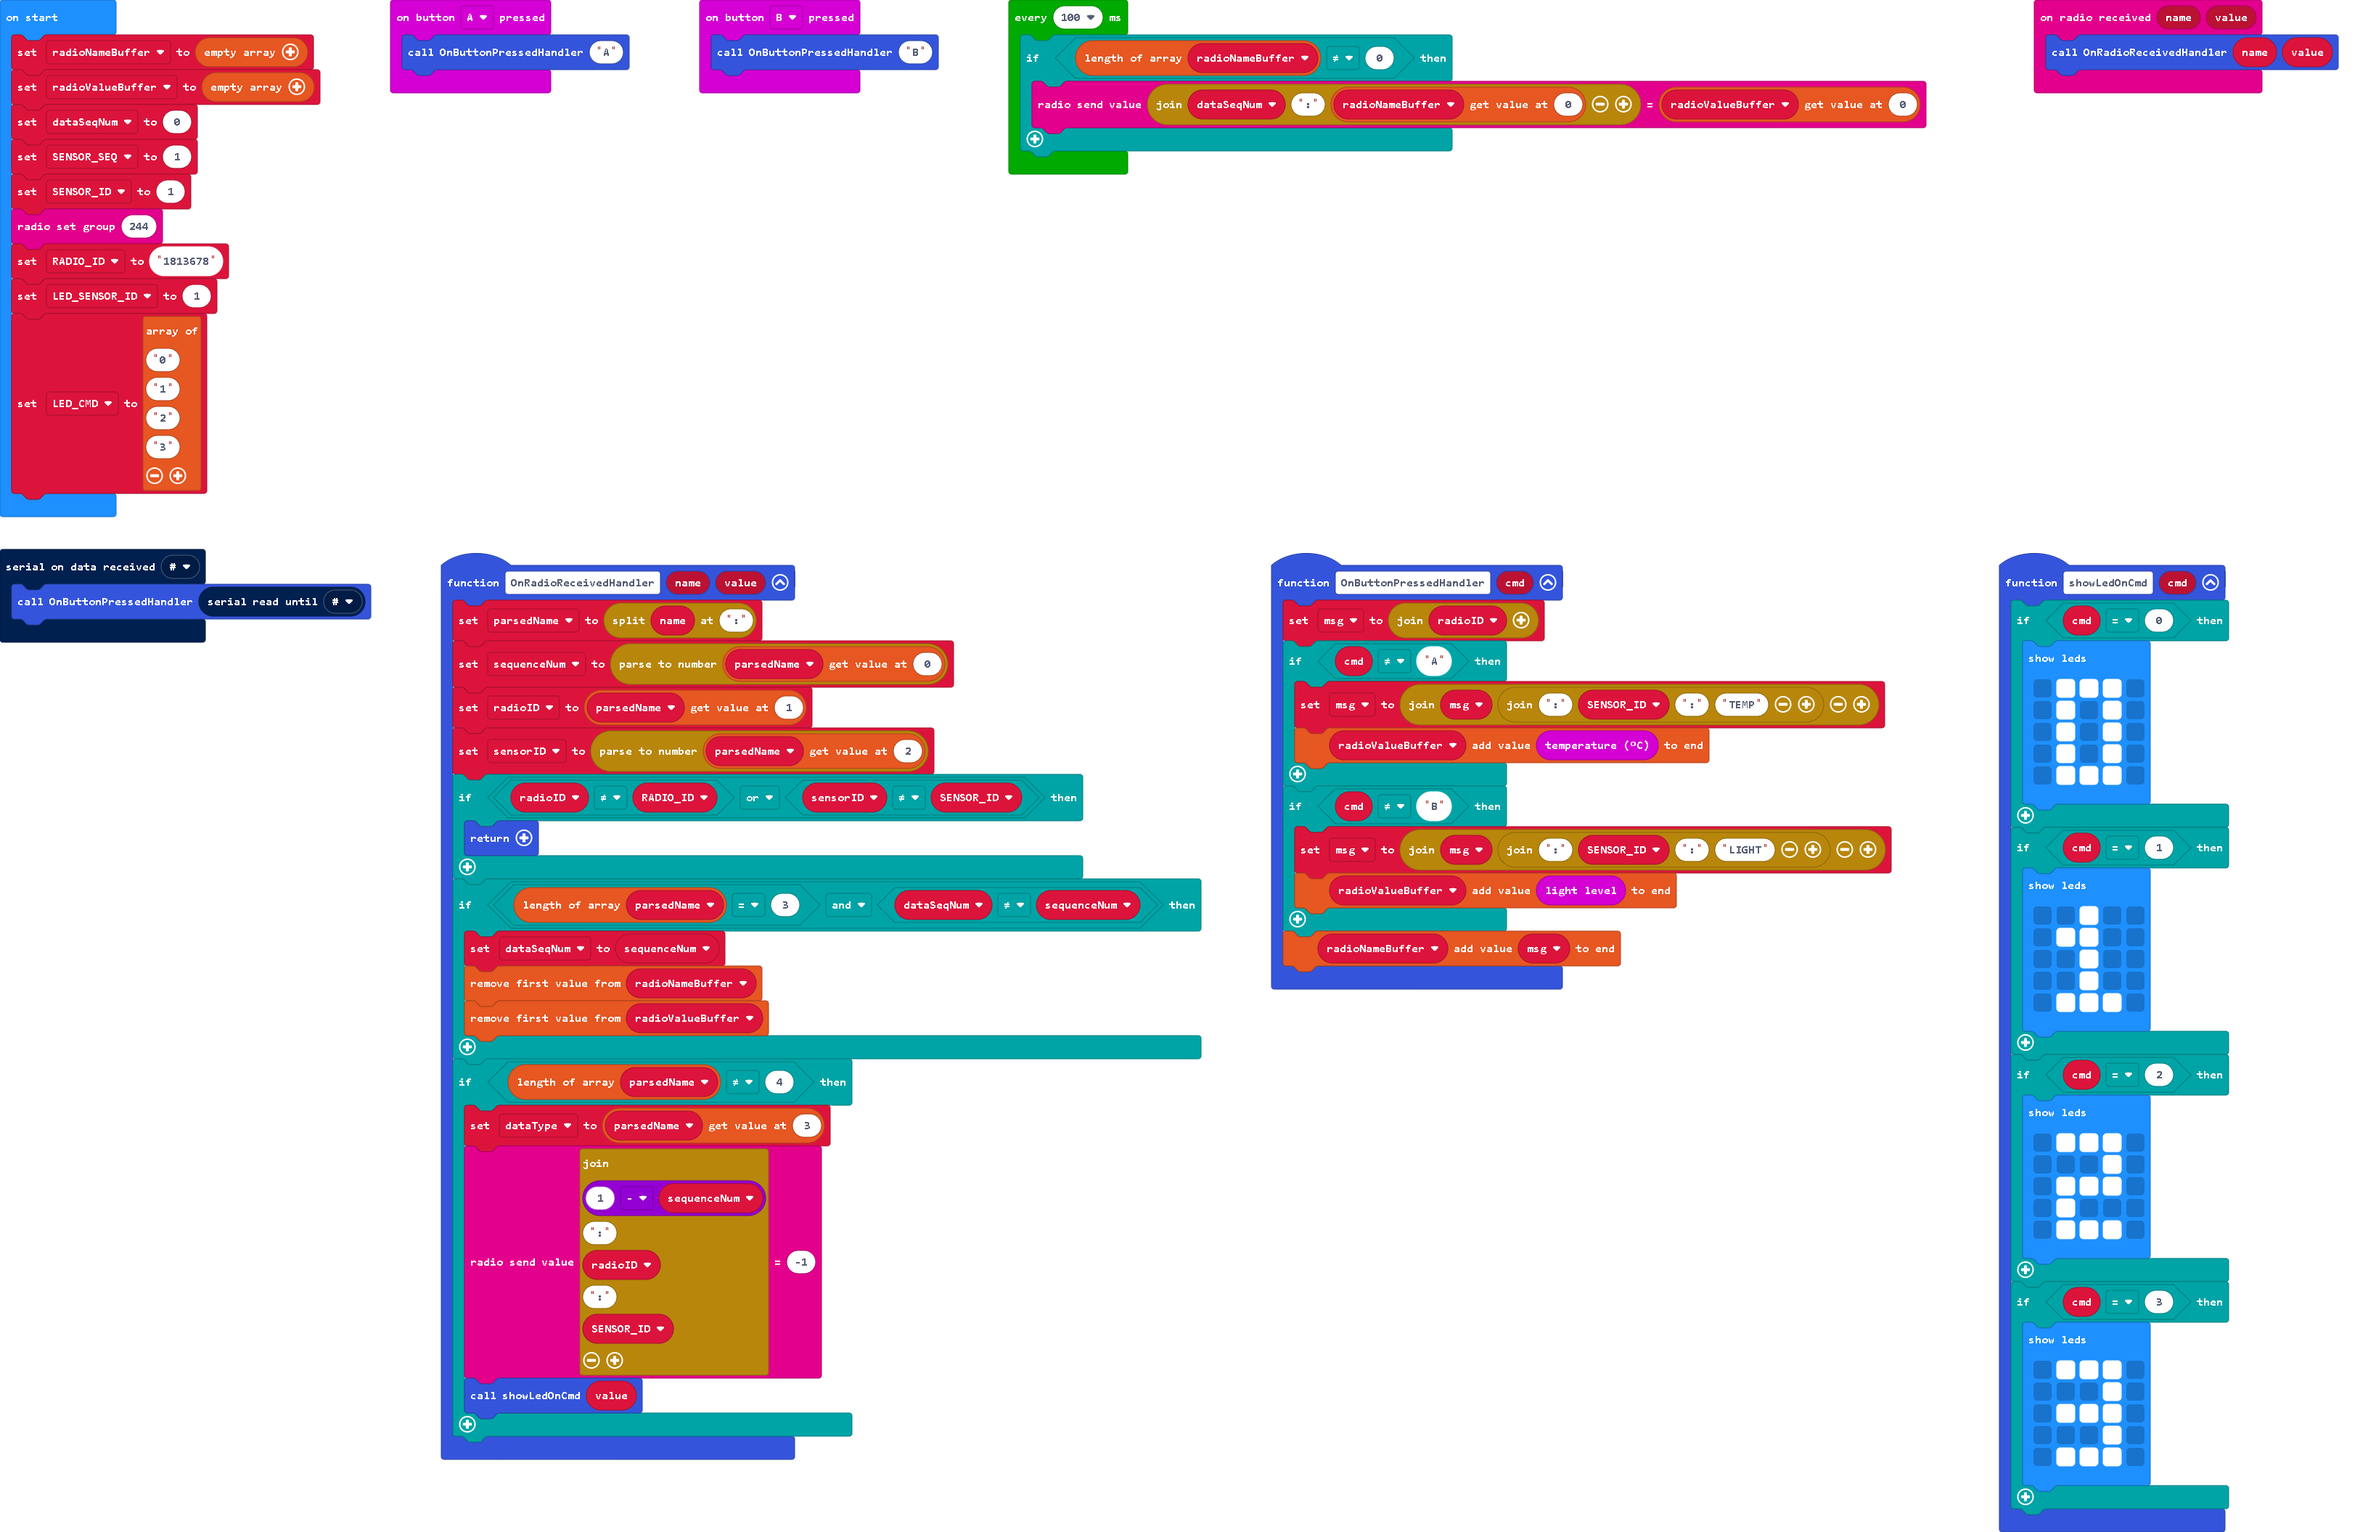
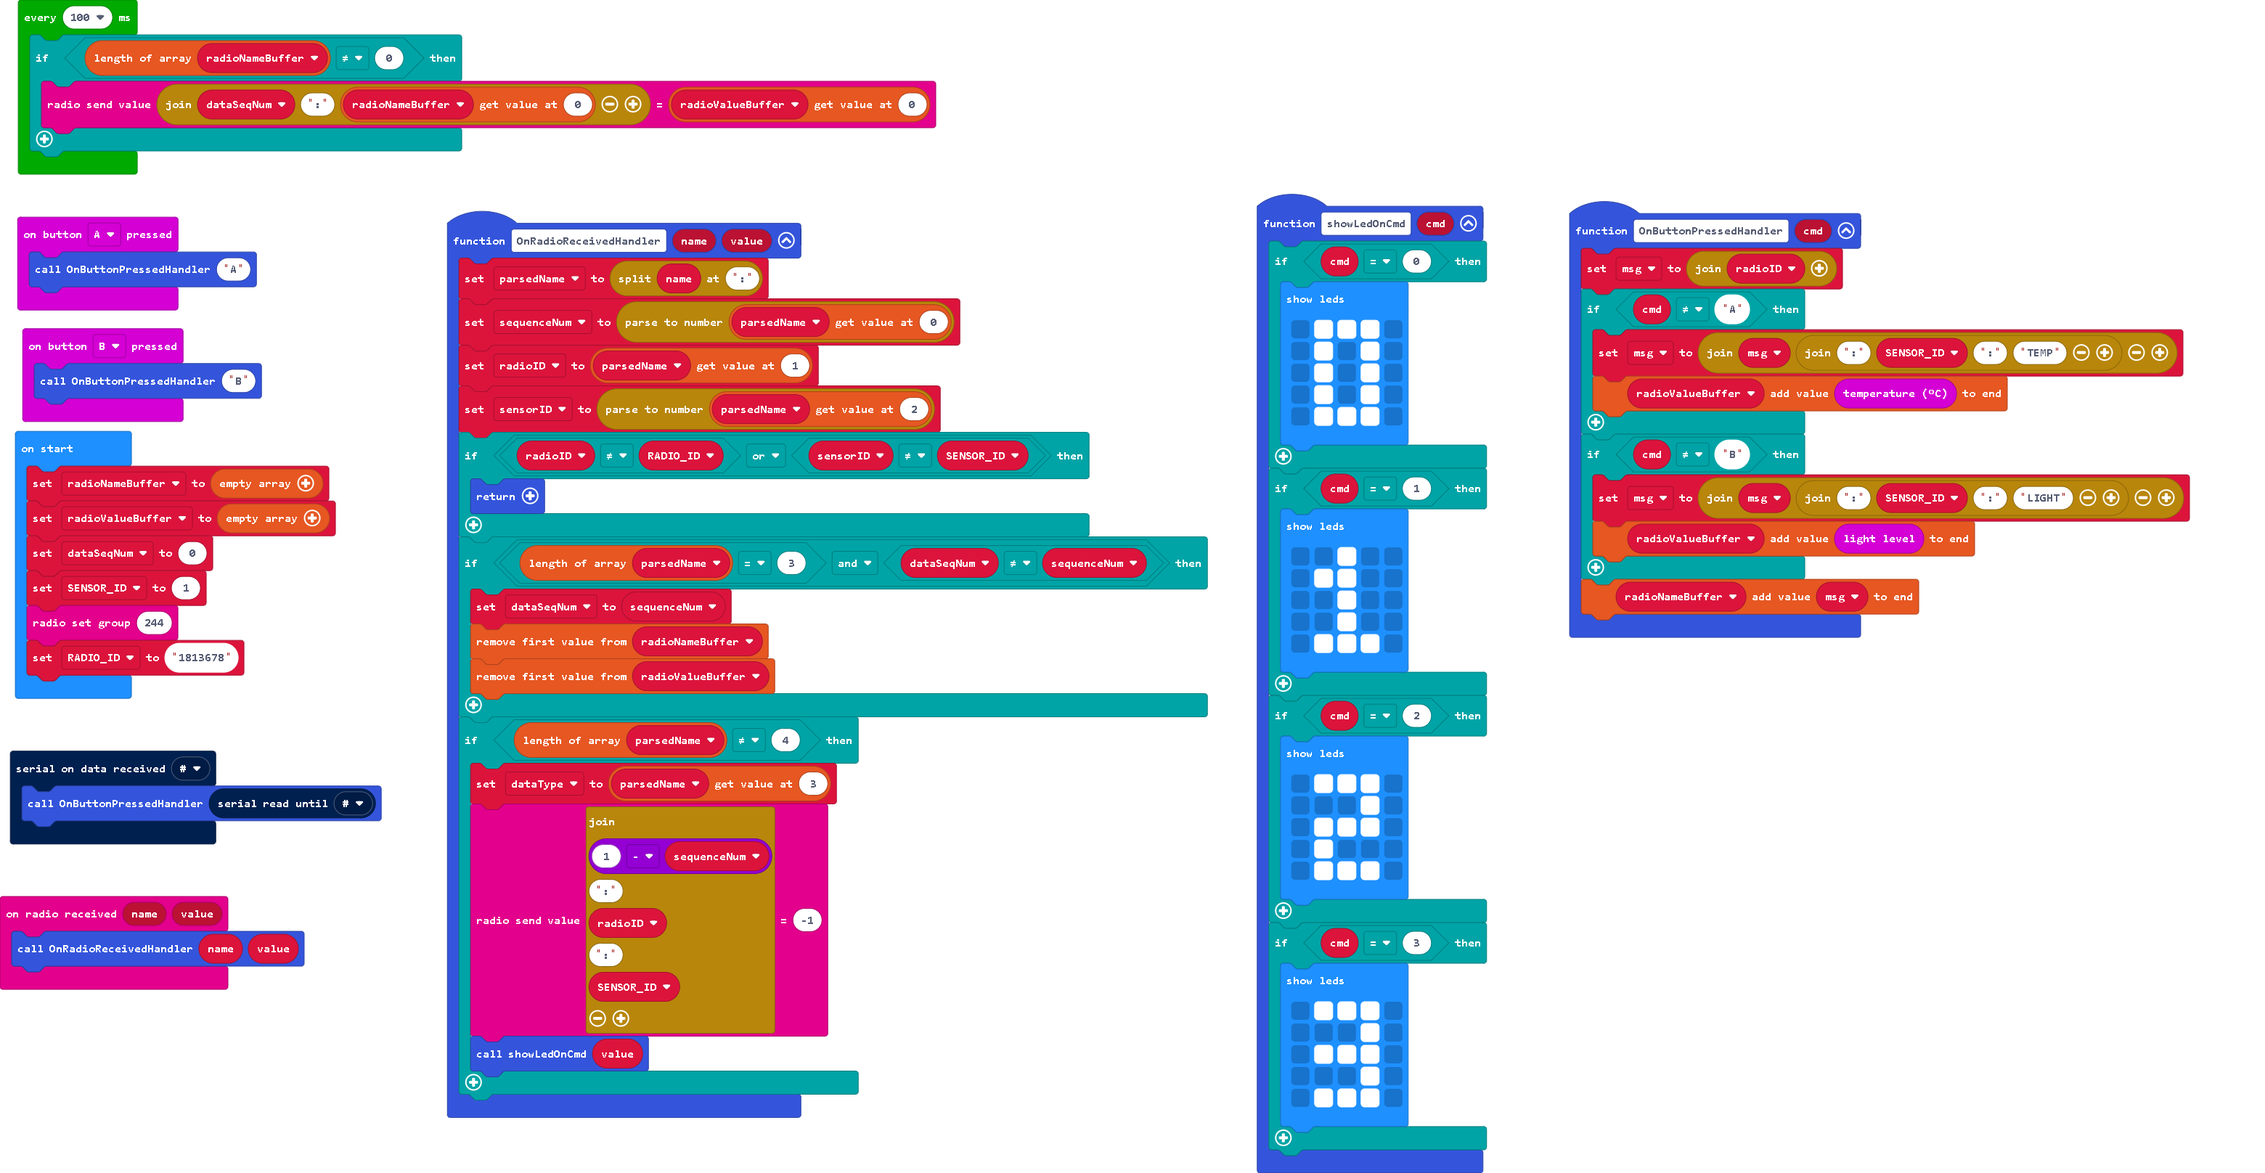
Remove unused variables

diff --git a/main.ts b/main.ts
@@ -93,17 +93,9 @@ let radioNameBuffer: string[] = []
 radioNameBuffer = []
 radioValueBuffer = []
 dataSeqNum = 0
-let SENSOR_SEQ = 1
 SENSOR_ID = 1
 radio.setGroup(244)
 RADIO_ID = "1813678"
-let LED_SENSOR_ID = 1
-let LED_CMD = [
-"0",
-"1",
-"2",
-"3"
-]
 loops.everyInterval(100, function () {
     if (radioNameBuffer.length != 0) {
         radio.sendValue("" + dataSeqNum + ":" + radioNameBuffer[0], radioValueBuffer[0])
